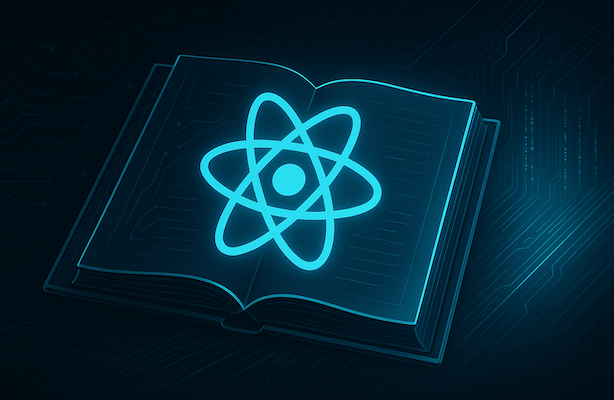
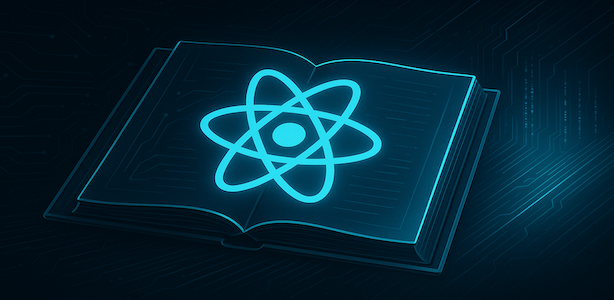
Add poster and update author
- Add poster.png (614x300) to package
- Update author to sannnao
- Display poster at full width in README

🤖 Generated with [Claude Code](https://claude.com/claude-code)

Changed region(s): [[0.4332, 0.15, 0.6189, 0.24], [0.6189, 0.21, 0.7117, 0.24], [0.7117, 0.24, 0.7736, 0.27]]

diff --git a/README.md b/README.md
@@ -1,4 +1,6 @@
-![Poster](./poster.png)
+<p align="center">
+  <img src="./poster.png" width="100%" alt="React Docs MCP">
+</p>
 
 # React Docs MCP Server
 
